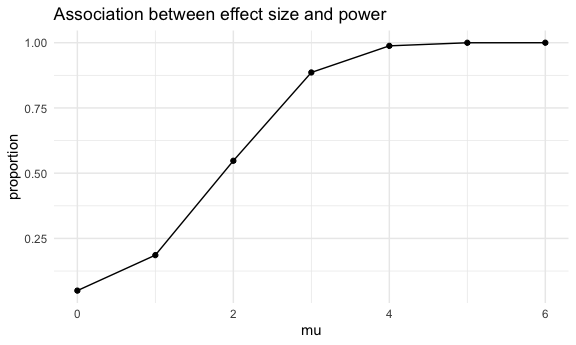
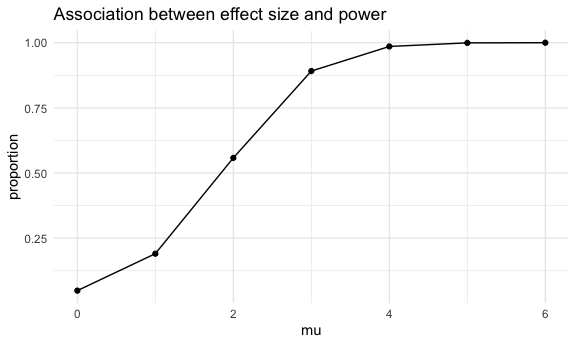
changes on generating the dataframe for prob3

diff --git a/p8105_hw5_yf2563.md b/p8105_hw5_yf2563.md
@@ -300,61 +300,27 @@ First set the following design elements:
 Fix n=30, sigma=5, mu=0. Generate 5000 datasets from the model
 
 ``` r
-set.seed(429)
-simulation <- function(mu, sd = 5, sample_size = 30, iteration = 5000){
+set.seed(520)
+
+sim_t_test = function(samp_size = 30, mu = 0, sigma = 5) {
   
-  tibble(
-    sample_id = 1:iteration,
-    data = rerun(iteration, rnorm(n = 30, mean = 0, sd = 5))) %>% 
-    mutate(t_test = map(.x = data, ~t.test(.x, mu = mu))) %>% 
-    mutate(result = map(.x = t_test, ~broom::tidy(.x))) %>% 
-    select(sample_id, result) %>%
-    unnest(result) %>% 
-    mutate(mu = rep(mu, iteration)) %>% 
-    select(mu, sample_id, estimate, p.value) %>% 
-    mutate(decision = case_when(
-      p.value < 0.05 ~ "Reject",
-      p.value >= 0.05 ~ "Fail to Reject"))
+  sim_data = tibble(
+    x = rnorm(samp_size, mean = mu, sd = sigma),
+  )
+  
+  sim_data  = t.test(sim_data) %>% 
+  broom::tidy() %>% 
+  mutate(mu = mu) %>% 
+  select(mu, estimate, p.value)
+  
+  sim_data
+  
+  
 }
+sim_0 = map_dfr(0, ~rerun(5000, sim_t_test(mu = .x)))
 
-simulation(0)
+output = map_dfr(0:6, ~rerun(5000, sim_t_test(mu = .x)))
 ```
-
-    ## # A tibble: 5,000 x 5
-    ##       mu sample_id estimate p.value decision      
-    ##    <dbl>     <int>    <dbl>   <dbl> <chr>         
-    ##  1     0         1    0.180  0.817  Fail to Reject
-    ##  2     0         2    1.32   0.0852 Fail to Reject
-    ##  3     0         3   -0.753  0.379  Fail to Reject
-    ##  4     0         4   -0.906  0.395  Fail to Reject
-    ##  5     0         5    1.36   0.116  Fail to Reject
-    ##  6     0         6    0.365  0.730  Fail to Reject
-    ##  7     0         7    2.22   0.0115 Reject        
-    ##  8     0         8   -1.70   0.0242 Reject        
-    ##  9     0         9    0.473  0.619  Fail to Reject
-    ## 10     0        10    0.407  0.593  Fail to Reject
-    ## # … with 4,990 more rows
-
-``` r
-output = map_dfr(0:6, simulation)
-
-output
-```
-
-    ## # A tibble: 35,000 x 5
-    ##       mu sample_id estimate p.value decision      
-    ##    <int>     <int>    <dbl>   <dbl> <chr>         
-    ##  1     0         1   -0.712   0.436 Fail to Reject
-    ##  2     0         2   -1.04    0.159 Fail to Reject
-    ##  3     0         3    0.660   0.459 Fail to Reject
-    ##  4     0         4    1.23    0.165 Fail to Reject
-    ##  5     0         5    0.449   0.642 Fail to Reject
-    ##  6     0         6    0.540   0.473 Fail to Reject
-    ##  7     0         7    1.10    0.262 Fail to Reject
-    ##  8     0         8    0.182   0.852 Fail to Reject
-    ##  9     0         9   -0.610   0.449 Fail to Reject
-    ## 10     0        10   -1.03    0.118 Fail to Reject
-    ## # … with 34,990 more rows
 
 #### Plot 1
 
@@ -365,15 +331,13 @@ output
 <!-- end list -->
 
 ``` r
-plot_data_df = 
+plot1_df = 
 output %>% 
     group_by(mu) %>% 
     filter(p.value<0.05) %>% 
-    summarize(
-      proportion = n()/5000
-      )
+    summarize(proportion = n()/5000)
   
-plot_data_df %>% 
+plot1_df %>% 
   ggplot(aes(x = mu, y = proportion))+
   geom_point()+
   geom_line() +
@@ -389,10 +353,33 @@ mean, he proportion of times the null was rejected (the power of the
 test) also increase. The association between effect size and power is
 positive
 
+#### Plot2
+
   - Make a plot showing the average estimate of mu on the y axis and the
-    true value of mu on the x axis. Make a second plot (or overlay on
-    the first) the average estimate of mu only in samples for which the
-    null was rejected on the y axis and the true value of mu on the x
-    axis. Is the sample average of mu across tests for which the null is
-    rejected approximately equal to the true value of mu? Why or why
-    not?
+    true value of mu on the x axis.
+  - Make a second plot (or overlay on the first) the average estimate of
+    mu only in samples for which the null was rejected on the y axis and
+    the true value of mu on the x axis. Is the sample average of mu
+    across tests for which the null is rejected approximately equal to
+    the true value of mu? Why or why not?
+
+<!-- end list -->
+
+``` r
+output %>% 
+  group_by(mu) %>% 
+  summarise(
+    ave = mean(estimate)
+  )
+```
+
+    ## # A tibble: 7 x 2
+    ##      mu     ave
+    ##   <int>   <dbl>
+    ## 1     0 0.00343
+    ## 2     1 1.00   
+    ## 3     2 1.99   
+    ## 4     3 3.01   
+    ## 5     4 4.00   
+    ## 6     5 5.00   
+    ## 7     6 5.99
